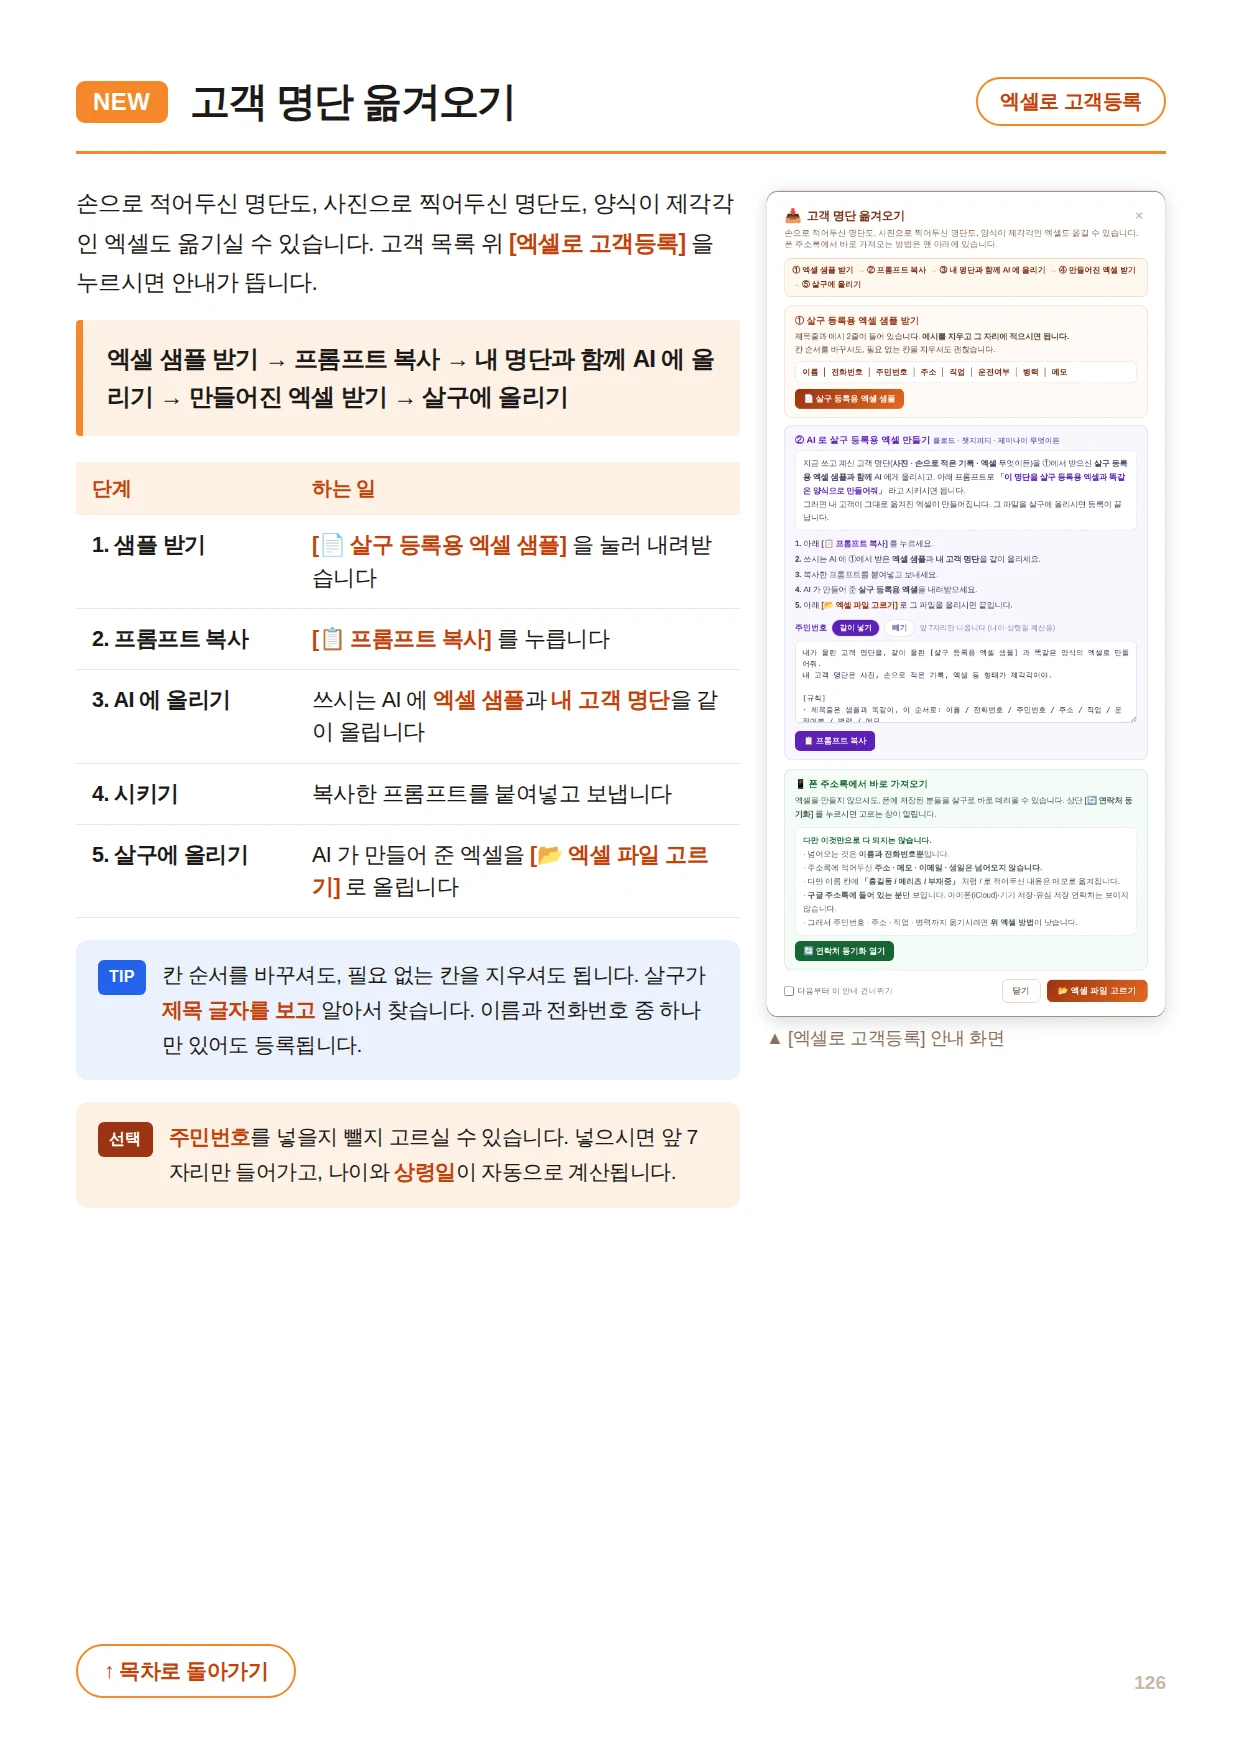
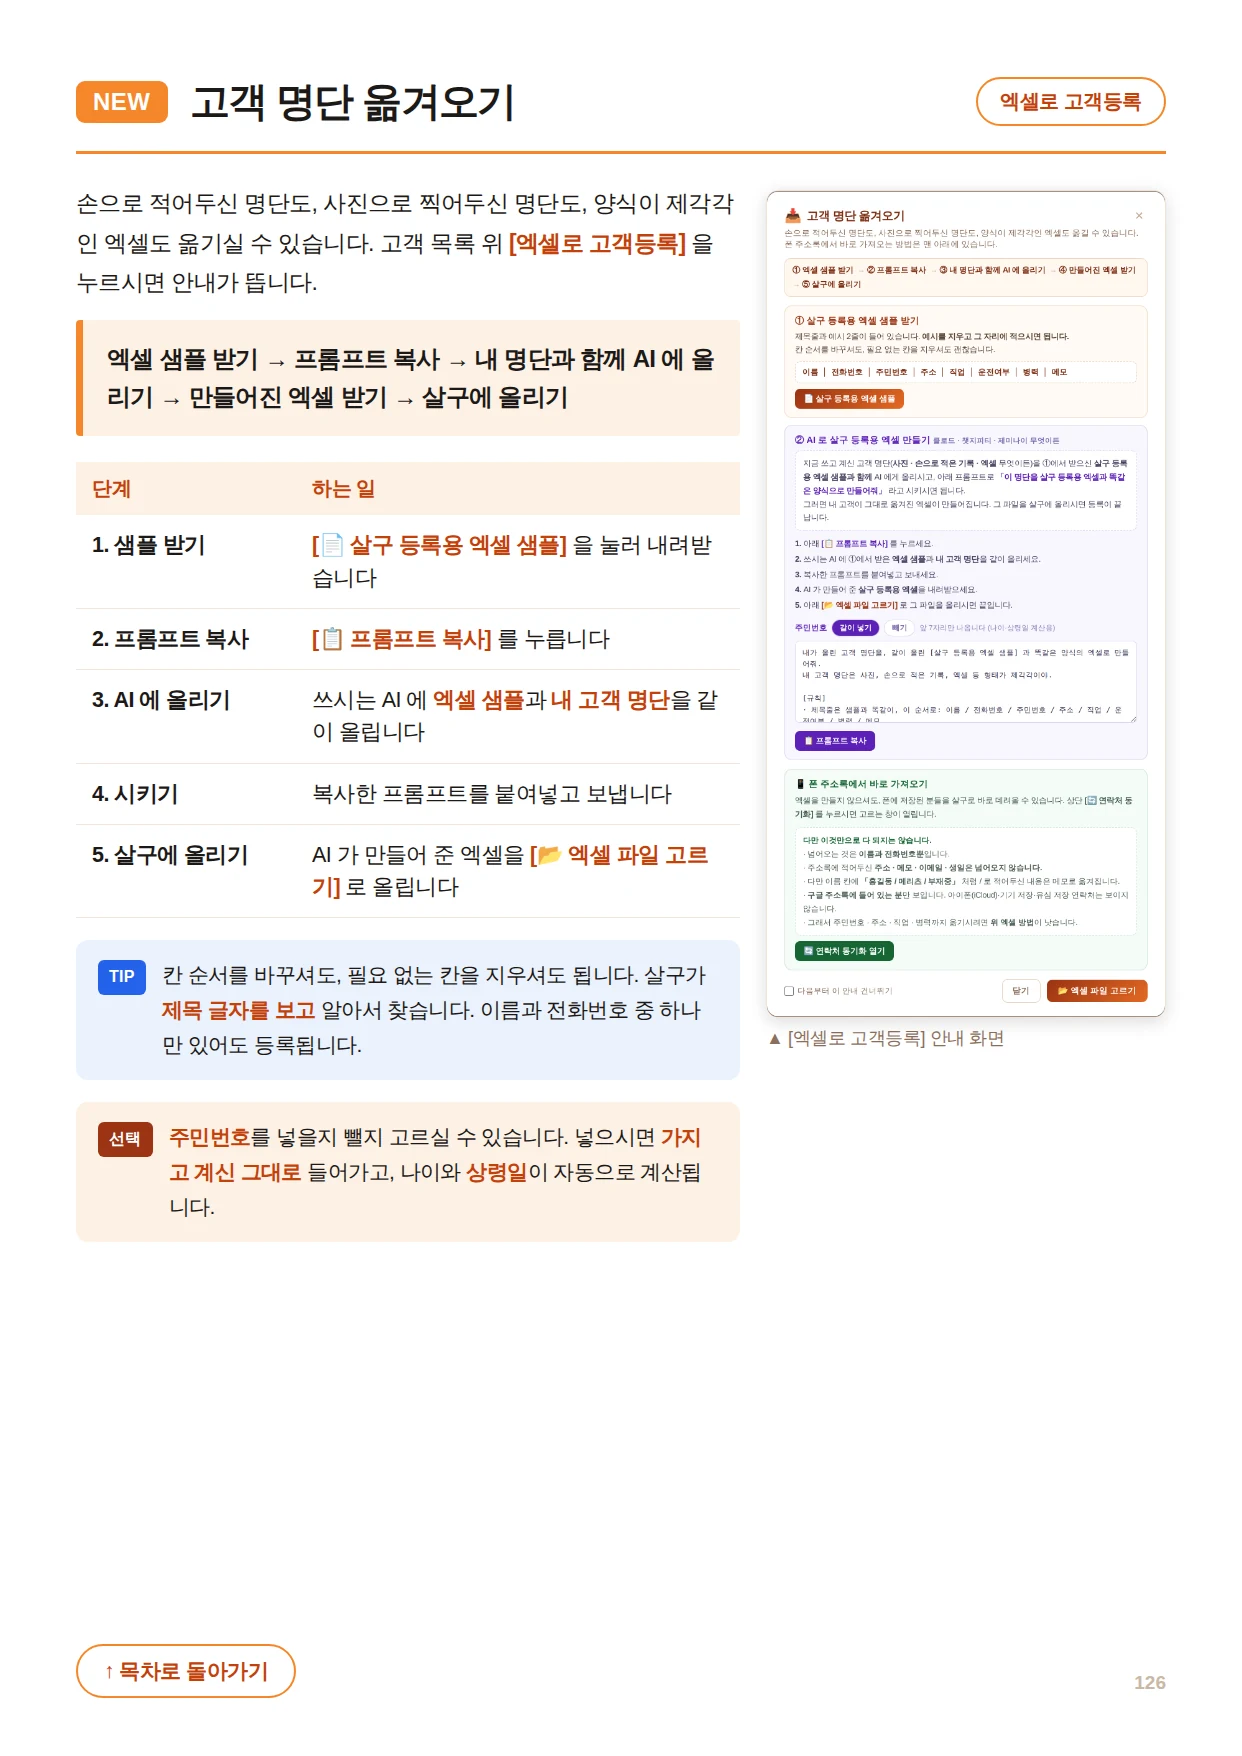
1
1

Changed region(s): [[0.0612, 0.6458, 0.6119, 0.7073]]

diff --git a/index.html b/index.html
@@ -17755,7 +17755,7 @@ window.sgImportPrompt = function (withJumin) {
     ? '이름 / 전화번호 / 주민번호 / 주소 / 직업 / 운전여부 / 병력 / 메모'
     : '이름 / 전화번호 / 주소 / 직업 / 운전여부 / 병력 / 메모';
   var juminRule = withJumin
-    ? '· 주민번호는 앞 7자리까지만 적어줘 (예: 850312-1). 뒷자리는 쓰지 마.\n'
+    ? '· 주민번호는 내 자료에 있는 그대로 옮겨줘. 13자리면 13자리 그대로, 앞자리만 있으면 앞자리만.\n'
     : '· 주민번호는 넣지 마.\n';
   return '내가 올린 고객 명단을, 같이 올린 [살구 등록용 엑셀 샘플] 과 똑같은 양식의 엑셀로 만들어줘.\n'
     + '내 고객 명단은 사진, 손으로 적은 기록, 엑셀 등 형태가 제각각이야.\n'
@@ -17919,11 +17919,13 @@ window.sgNoticeAuto = function () {
   window.__sgNoticeAuto__ = true;
   if (window.sgNoticeSeen()) return;
   setTimeout(function () {
-    /* 사용법 가이드가 떠 있으면(=처음 오신 분) 건너뛴다. 어차피 다 새로 보시는 중이다. */
+    /* 사용법 가이드가 곧 뜨거나 이미 떠 있으면 건너뛴다 (처음 오신 분).
+       그 외에는 로그인 직후 바로 띄운다. */
+    if (window.__sgGuideWillRun__) return;
     var ce = document.getElementById('sgg-catch');
     if (ce && ce.style.display === 'block') return;
     try { window.sgNotice(); } catch (e) {}
-  }, 2000);
+  }, 250);
 };
 
 /* ── 안내 화면 ──────────────────────────────────────────────────── */
@@ -18042,7 +18044,7 @@ window.sgImportGuide = function () {
     if (t) t.value = window.sgImportPrompt(withJumin);
     var note = card.querySelector('#sgimp-jnote');
     if (note) note.textContent = withJumin
-      ? '앞 7자리만 나옵니다 (나이·상령일 계산용)'
+      ? '자료에 있는 그대로 들어갑니다 (나이·상령일 자동 계산)'
       : '살구에서 직접 채워 넣으시면 됩니다';
     var btns = card.querySelectorAll('.sgimp-j');
     for (var i = 0; i < btns.length; i++) {
@@ -18534,6 +18536,7 @@ window.sgSeedSamples = function () {
     if (window.__sgGuideAuto__) return;      /* 두 군데서 불러도 한 번만 */
     window.__sgGuideAuto__ = true;
     try { if (localStorage.getItem(SEEN)) return; } catch (e) {}
+    window.__sgGuideWillRun__ = true;   /* ★ 공지 팝업이 가이드를 덮지 않도록 (2026-09-11) */
     setTimeout(function () { try { window.sgGuideStart(); } catch (e) {} }, 900);
   };
 
